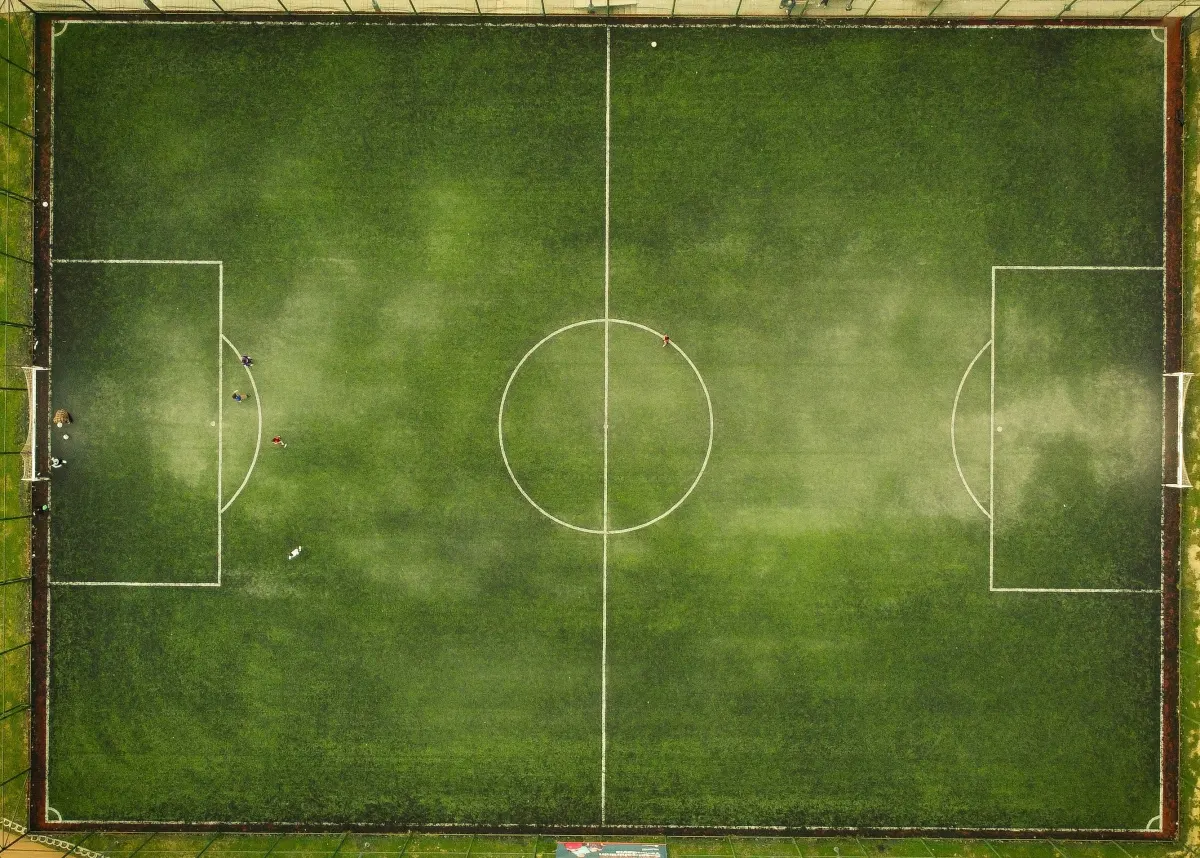
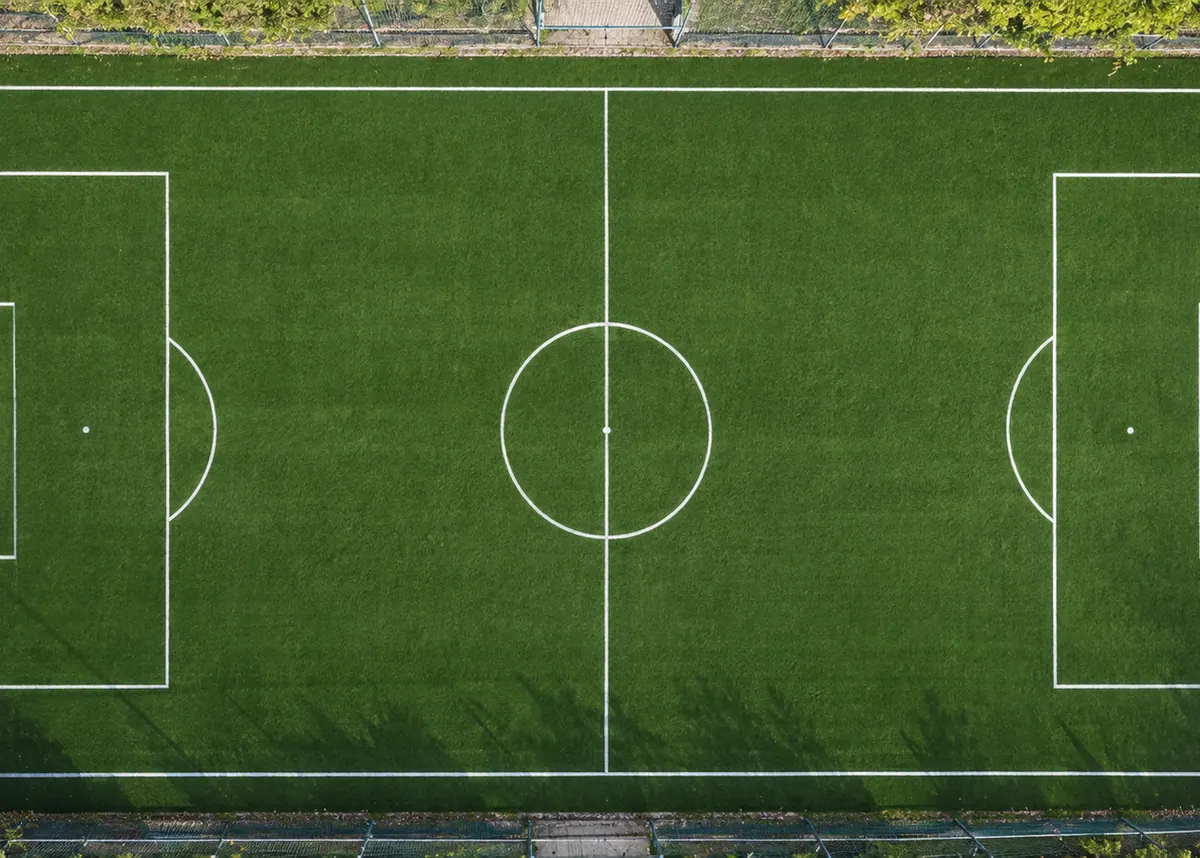
feat: foto de futbol nueva y textura de pasto actualizada
De una sola aerea vertical que mando Sebas salen las dos versiones que
usa el sitio, porque en la anterior se veia el pasto gastado.

Hero (aereo-futbol.webp): 500x964, q72, 56 KB. 500px de ancho es el
estandar de las cinco verticales del hero, y el ratio 0.519 la deja
alineada con tenis (0.518) y rugby (0.535), asi que object-fit recorta
igual que en las otras.

Deportes (aereo-futbol-horizontal.webp): 1200x858, q78, 132 KB contra
217 KB de la anterior. Sale de rotar la vertical 90 grados y recortar el
centro al ratio exacto que declara el HTML, que es como estaban hechas
las otras horizontales. No hizo falta tocar el markup.

Tambien entra la textura nueva de las secciones bg-pasto. Va a 900x506 y
q45, NO a los 1200/q72 de la convencion: el pasto es ruido de alta
frecuencia y a 1200/q72 pesaba 140 KB contra los 45 KB de la anterior.
Vive bajo un velo del 60-88%, asi que el detalle no se ve y bajar
resolucion y calidad no cuesta nada en pantalla. Quedo en 56 KB.

Neto de los tres archivos: 307 KB a 244 KB.

Los originales quedan en img/_originales/ para poder rehacerlo.

Verificado en navegador: el hero carga 500x964 y el panel de Deportes
1200x858, las dos con el pasto nuevo.

Ojo que la textura NO estaba pedida explicitamente: Sebas dejo el archivo
en img/ con el mismo ratio exacto que la que reemplaza y el nombre
"mejorada", asi que se tomo como intencion. Se revierte con un checkout
si no era para ahora.

diff --git a/CONTEXTO_CLAUDE.md b/CONTEXTO_CLAUDE.md
@@ -205,6 +205,28 @@ saturate más generosos. Fix de íconos del hero que se veían en miniatura en
 mobile (el círculo no baja de 44px por accesibilidad, se redujo el padding
 interno a 0.55rem).
 
+**Fotos de fútbol y textura de pasto (22-09-2026).** Sebas mandó una aérea
+vertical nueva porque en la anterior se veía el pasto gastado. De ese único
+archivo salen las dos versiones:
+
+- **Hero** (`aereo-futbol.webp`): 500×964, q72, 56 KB. 500px de ancho es el
+  estándar de las cinco verticales del hero, y el ratio 0.519 la deja alineada
+  con tenis (0.518) y rugby (0.535).
+- **Deportes** (`aereo-futbol-horizontal.webp`): 1200×858, q78, 132 KB (antes
+  217 KB). Sale de rotar la vertical 90° y recortar el centro al ratio que
+  declara el HTML, que es como estaban hechas las otras horizontales.
+
+También se reemplazó **`textura-pasto.webp`**, el fondo de las secciones
+`bg-pasto`, por la versión nueva. Va a **900×506 y q45**, no a los 1200/q72 de
+la convención: el pasto es ruido de alta frecuencia y a 1200/q72 pesaba 140 KB
+contra los 45 KB de la anterior. Vive bajo un velo del 60-88%, así que el
+detalle no se ve y bajarla no cuesta nada visualmente. Quedó en 56 KB.
+
+**Neto de las tres: 307 KB → 244 KB.**
+
+Los originales van a `img/_originales/aereo-futbol-2026.png` y
+`textura-pasto-2026.png`.
+
 **Bloque 4A.11 a 4A.13 — Deportes en mobile y textura (22-09-2026).**
 
 - **Un solo contenedor, no dos.** El panel tenía padding y adentro la card su
@@ -531,8 +553,9 @@ y desktop.
   tercera foto de un jardín residencial real el carrusel gana solo**, no hay que
   tocar JS. Ojo: `parquizacion-1.webp` es byte a byte idéntica a
   `parquizacion.webp`, es un duplicado que se puede borrar.
-- Fotos aéreas horizontales reales de fútbol y hockey (las actuales son
-  verticales rotadas). Pedirlas cuando haya obra nueva con drone.
+- Fotos aéreas horizontales reales de fútbol y hockey. Las dos siguen siendo
+  verticales rotadas: la de fútbol se renovó el 22-09-2026 con una foto mejor,
+  pero sigue siendo una rotación. Pedirlas cuando haya obra nueva con drone.
 
 ### Bloques pendientes (en orden)
 - **Migración a dominio propio.** **Sebas lo paga el 21-09-2026** y avisa
